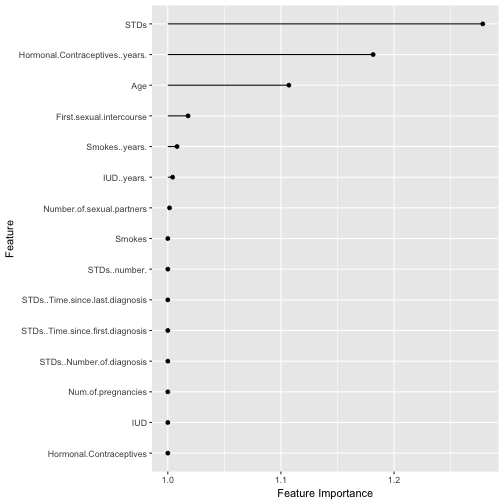
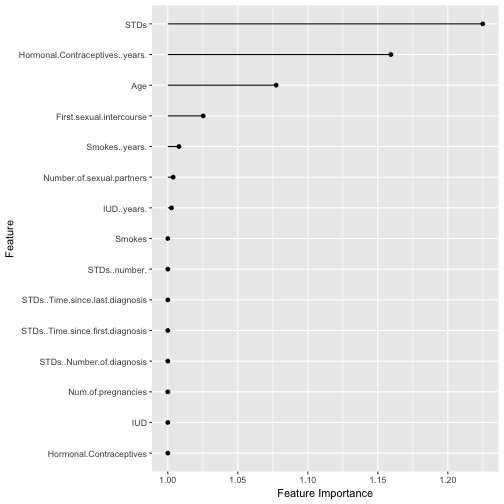
leanpub-make

diff --git a/manuscript/05.6-agnostic-shapley.md b/manuscript/05.6-agnostic-shapley.md
@@ -97,25 +97,25 @@ Figure \@ref(fig:shapley-cervical-plot) visualizes the Shapley values, that are 
 |STDs..Time.since.first.diagnosis |  1.00|
 |STDs..Time.since.last.diagnosis  |  1.00|
 
-![Feature value contributions for woman 326 in the cervical cancer dataset. With a prediction of 0.40, this woman's cancer probability is 0.38 above the average prediction of 0.02. The feature value that increased the probability the most is the number of diagnosed STDs. The feature contributions sum up to the difference of actual and average prediction (0.38).](images/shapley-cervical-plot-1.png)
+![Feature value contributions for woman 326 in the cervical cancer dataset. With a prediction of 0.43, this woman's cancer probability is 0.41 above the average prediction of 0.03. The feature value that increased the probability the most is the number of diagnosed STDs. The feature contributions sum up to the difference of actual and average prediction (0.41).](images/shapley-cervical-plot-1.png)
 
 |feature                          |        phi|
 |:--------------------------------|----------:|
-|Age                              |  0.0260000|
-|First.sexual.intercourse         |  0.0680000|
-|Hormonal.Contraceptives          | -0.0003333|
-|Hormonal.Contraceptives..years.  |  0.0223333|
-|IUD                              | -0.0036667|
-|IUD..years.                      | -0.0010000|
-|Num.of.pregnancies               |  0.0253333|
-|Number.of.sexual.partners        |  0.0446667|
-|STDs                             |  0.0526667|
-|STDs..Number.of.diagnosis        |  0.0756667|
-|STDs..Time.since.first.diagnosis |  0.0030000|
+|Age                              |  0.0446667|
+|First.sexual.intercourse         |  0.0456667|
+|Hormonal.Contraceptives          |  0.0026667|
+|Hormonal.Contraceptives..years.  |  0.0366667|
+|IUD                              | -0.0020000|
+|IUD..years.                      |  0.0046667|
+|Num.of.pregnancies               |  0.0136667|
+|Number.of.sexual.partners        |  0.0666667|
+|STDs                             |  0.0653333|
+|STDs..Number.of.diagnosis        |  0.0533333|
+|STDs..Time.since.first.diagnosis |  0.0046667|
 |STDs..Time.since.last.diagnosis  | -0.0013333|
-|STDs..number.                    |  0.0646667|
-|Smokes                           | -0.0036667|
-|Smokes..years.                   |  0.0016667|
+|STDs..number.                    |  0.0680000|
+|Smokes                           | -0.0026667|
+|Smokes..years.                   | -0.0023333|
 
 
 
@@ -142,22 +142,22 @@ Figure \@ref(fig:shapley-bike-plot) shows the explanations created for the  Rand
 |windspeed       |16.62605        |
 |days_since_2011 |284             |
 
-![Feature value contributions for instance 285. With a predicted 2464 rented bikes, this day is -2043 below the average prediction of 4507. The feature values that had the most negative effects were the weather situation, humidity and the time trend (years since 2011). The temperature on that day had a positive effect compared to the average prediction. The feature contributions sum up to the difference of actual and average prediction (-2043).](images/shapley-bike-plot-1.png)
+![Feature value contributions for instance 285. With a predicted 2354 rented bikes, this day is -2160 below the average prediction of 4515. The feature values that had the most negative effects were the weather situation, humidity and the time trend (years since 2011). The temperature on that day had a positive effect compared to the average prediction. The feature contributions sum up to the difference of actual and average prediction (-2160).](images/shapley-bike-plot-1.png)
 
 
-|feature         |     phi|
-|:---------------|-------:|
-|days_since_2011 | -394.25|
-|holiday         |    0.33|
-|hum             | -890.26|
-|mnth            |    8.28|
-|season          |    1.94|
-|temp            |  328.55|
-|weathersit      | -828.16|
-|weekday         |    6.48|
-|windspeed       |  -70.10|
-|workingday      |   -2.14|
-|yr              |  -91.46|
+|feature         |      phi|
+|:---------------|--------:|
+|days_since_2011 |  -387.46|
+|holiday         |     0.49|
+|hum             | -1014.98|
+|mnth            |  -115.38|
+|season          |    42.02|
+|temp            |   406.58|
+|weathersit      |  -720.22|
+|weekday         |   -54.96|
+|windspeed       |   -34.92|
+|workingday      |    -0.24|
+|yr              |  -252.03|
 
 Be careful to interpret the Shapley value correctly:
 The Shapley value is the average contribution of a feature value towards the prediction in different coalitions.

diff --git a/manuscript/05.4-agnostic-permfeatimp.md b/manuscript/05.4-agnostic-permfeatimp.md
@@ -47,13 +47,13 @@ Features that are associated model error increase by a factor of 1 (= no change)
 
 |feature                          | permutation.error| importance|
 |:--------------------------------|-----------------:|----------:|
-|STDs                             |              0.43|       1.28|
-|Hormonal.Contraceptives..years.  |              0.40|       1.18|
-|Age                              |              0.38|       1.11|
-|First.sexual.intercourse         |              0.35|       1.02|
+|STDs                             |              0.42|       1.22|
+|Hormonal.Contraceptives..years.  |              0.39|       1.16|
+|Age                              |              0.37|       1.08|
+|First.sexual.intercourse         |              0.35|       1.03|
 |Smokes..years.                   |              0.34|       1.01|
-|IUD..years.                      |              0.34|       1.00|
 |Number.of.sexual.partners        |              0.34|       1.00|
+|IUD..years.                      |              0.34|       1.00|
 |Hormonal.Contraceptives          |              0.34|       1.00|
 |IUD                              |              0.34|       1.00|
 |Num.of.pregnancies               |              0.34|       1.00|
@@ -63,7 +63,7 @@ Features that are associated model error increase by a factor of 1 (= no change)
 |STDs..number.                    |              0.34|       1.00|
 |Smokes                           |              0.34|       1.00|
 
-The feature with the highest importance was  associated with an error increase of 1.28 after permutation.
+The feature with the highest importance was  associated with an error increase of 1.22 after permutation.
 
 **Bike rentals (Classification)**
 
@@ -77,17 +77,17 @@ Figure \@ref(fig:importance-bike) and Table \@ref(tab:importance-bike-table) sho
 
 |feature         | permutation.error| importance|
 |:---------------|-----------------:|----------:|
-|days_since_2011 |             873.9|        4.1|
-|temp            |             769.3|        3.6|
-|yr              |             548.3|        2.6|
-|mnth            |             431.3|        2.0|
-|hum             |             395.6|        1.9|
-|season          |             378.6|        1.8|
-|weathersit      |             322.1|        1.5|
-|windspeed       |             310.4|        1.5|
-|weekday         |             304.1|        1.4|
-|workingday      |             237.9|        1.1|
-|holiday         |             215.5|        1.0|
+|days_since_2011 |             911.0|        4.3|
+|temp            |             777.5|        3.7|
+|yr              |             519.3|        2.5|
+|mnth            |             440.1|        2.1|
+|season          |             385.9|        1.8|
+|hum             |             380.5|        1.8|
+|weathersit      |             324.2|        1.5|
+|weekday         |             303.7|        1.4|
+|windspeed       |             302.7|        1.4|
+|workingday      |             239.7|        1.1|
+|holiday         |             216.5|        1.0|
 
 A positive aspect of using the error ratio instead of the error difference is that the feature importance measurements are comparable across different problems. 
 You can see that the importance of the most important features in the bike rental prediction task is 2 to 3 times higher than in the cervical cancer prediction task. 

diff --git a/manuscript/04.5-interpretable-rulefit.md b/manuscript/04.5-interpretable-rulefit.md
@@ -44,21 +44,21 @@ If {$$}x_j{/$$} increases by one unit, the predicted outcome changes by {$$}\bet
 
 In this example, we use RuleFit to predict the number of [bike rentals](#bike-data) on a given day.
 The rules generated for the bike rental prediction task can be seen in Figure \@ref(fig:rulefit-example).
-The most important rule was: "days_since_2011 > 107 & weathersit %in% c("GOOD", "MISTY")" and the associated weight is 662.1.
+The most important rule was: "days_since_2011 > 108 & weathersit %in% c("GOOD", "MISTY")" and the associated weight is 790.9.
 The interpretation is:
-If days_since_2011 > 107 & weathersit %in% c("GOOD", "MISTY"), then the predicted number of bike rentals increases by 662.1, given all other features values stay fixed.
-In total,  335 such rules were created from the original 8 features.
+If days_since_2011 > 108 & weathersit %in% c("GOOD", "MISTY"), then the predicted number of bike rentals increases by 790.9, given all other features values stay fixed.
+In total,  346 such rules were created from the original 8 features.
 Quite a lot!
-But thanks to Lasso, only 32 of the 335 got a weight different from zero.
+But thanks to Lasso, only 42 of the 346 got a weight different from zero.
 
 
 |Description                                                | Weight| Importance|
 |:----------------------------------------------------------|------:|----------:|
-|days_since_2011 > 107 & weathersit %in% c("GOOD", "MISTY") |    662|        250|
-|days_since_2011 > 430 & temp > 5.081651                    |    616|        301|
-|temp <= 12.719151 & days_since_2011 <= 368                 |   -510|        214|
-|temp > 11.583349 & days_since_2011 > 391                   |    507|        236|
-|temp > 5.732178 & weathersit %in% c("GOOD", "MISTY")       |    366|        143|
+|days_since_2011 > 108 & weathersit %in% c("GOOD", "MISTY") |    791|        299|
+|temp > 13.776651 & days_since_2011 > 566                   |    580|        195|
+|days_since_2011 > 430 & temp > 5.081651                    |    542|        265|
+|temp > 15.6175 & days_since_2011 > 437                     |    446|        194|
+|temp <= 14.755849 & days_since_2011 <= 373                 |   -326|        143|
 
 Computing the global feature importances reveals that temperature and the time trend are the most important features, see Figure \@ref(fig:rulefit-importance).
 The feature importance measurement includes the importance of the raw feature term and all the decision rules the feature appears in.

diff --git a/manuscript/index.md b/manuscript/index.md
@@ -2,7 +2,7 @@
 title: "Interpretable Machine Learning"
 subtitle: "A Guide for Making Black Box Models Explainable."
 author: "Christoph Molnar"
-date: "2018-03-30"
+date: "2018-04-02"
 knit: "bookdown::render_book"
 documentclass: krantz
 link-citations: yes
